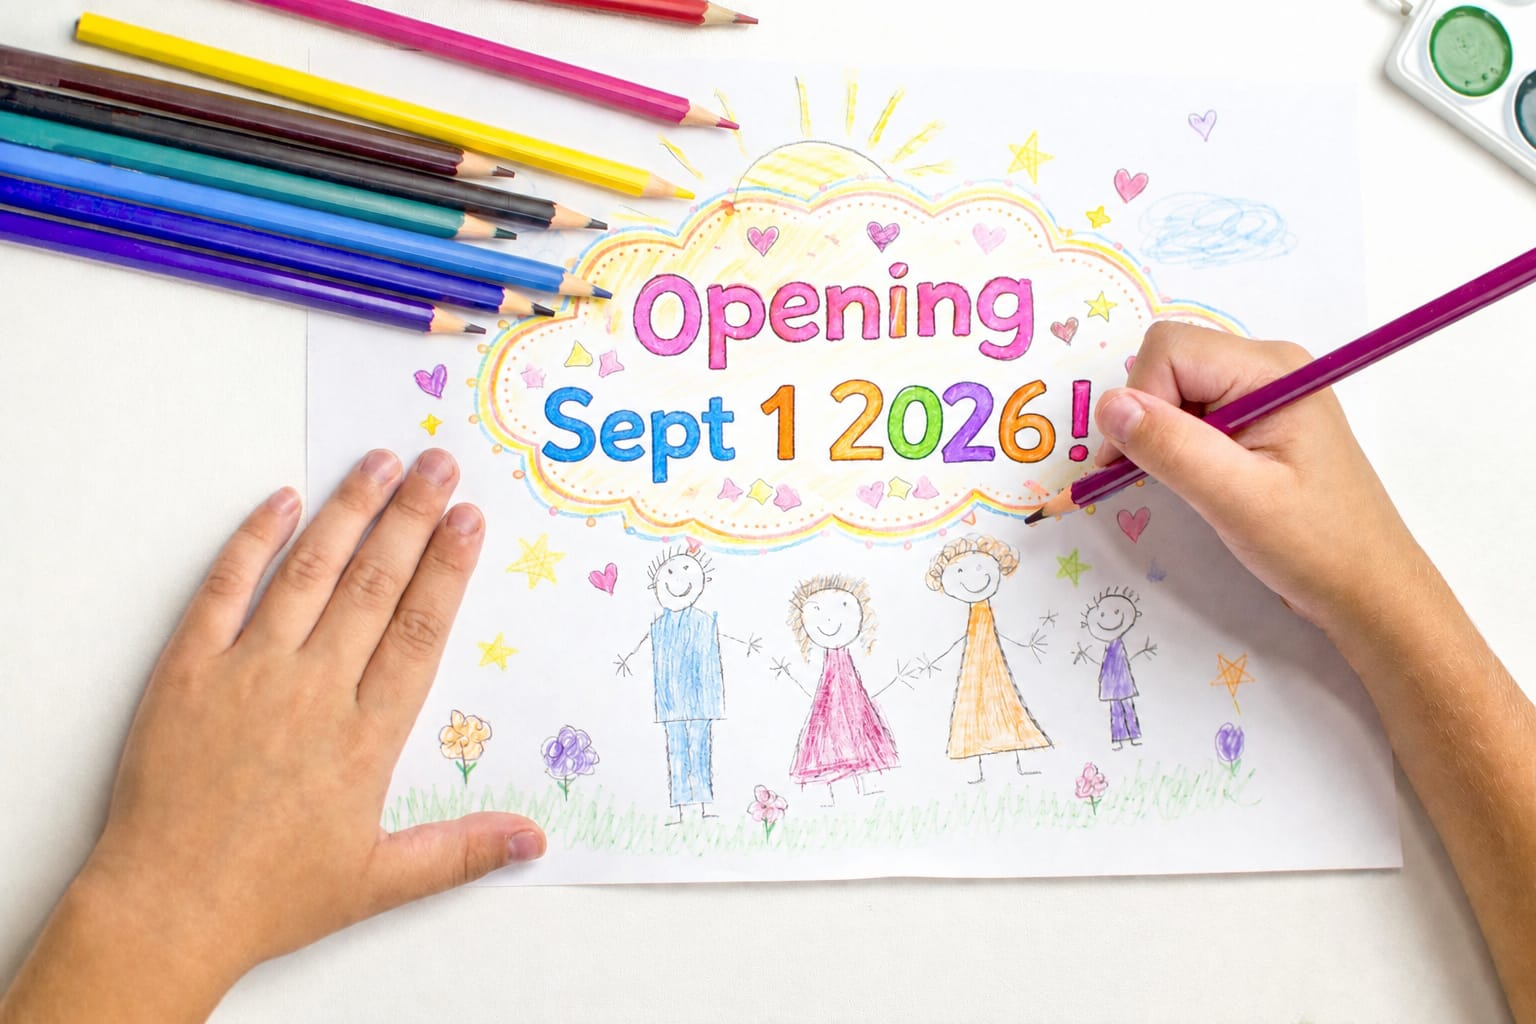
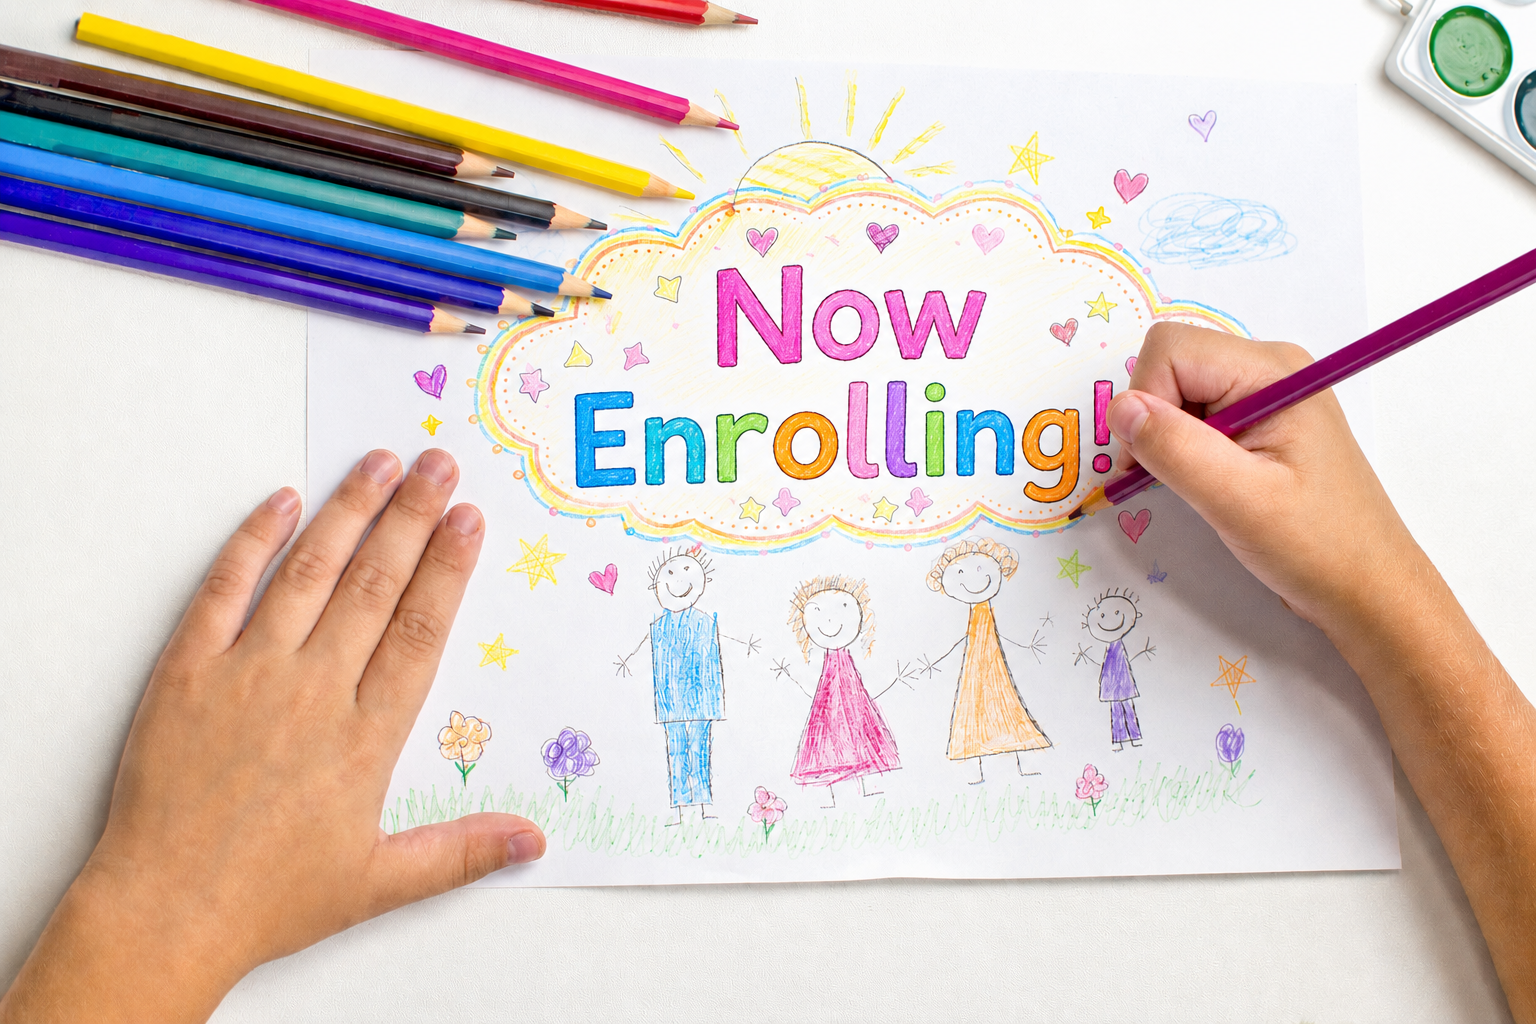
Change image; Modify the columns with removed element

diff --git a/src/sections/About.tsx b/src/sections/About.tsx
@@ -8,7 +8,7 @@ export default function About(){
     <section id="about" className="border-b bg-white py-16 md:py-24">
       <Container>
         <SectionTitle kicker="Why Choose Us" title="Nurturing, safe, and play‑based" subtitle="Everything we do is built on love, safety, and discovery."/>
-        <div className="grid gap-6 sm:grid-cols-2 lg:grid-cols-4">
+        <div className="grid gap-6 sm:grid-cols-2 lg:grid-cols-3">
           <Feature icon={<Heart className="h-6 w-6" />} title="Warm & Inclusive" desc="Every child is celebrated. We create a welcoming space for all families." />
           <Feature icon={<Apple className="h-6 w-6" />} title="Nutritious Food" desc="1 Meal, 2 snacks and 2% or Homogenized milk is provided for children 18 months or older throughout the day." />
           <Feature icon={<ShieldCheck className="h-6 w-6"/>} title="Safety First" desc="Secure check‑in, sanitized spaces, and CPR‑trained educators."/>
